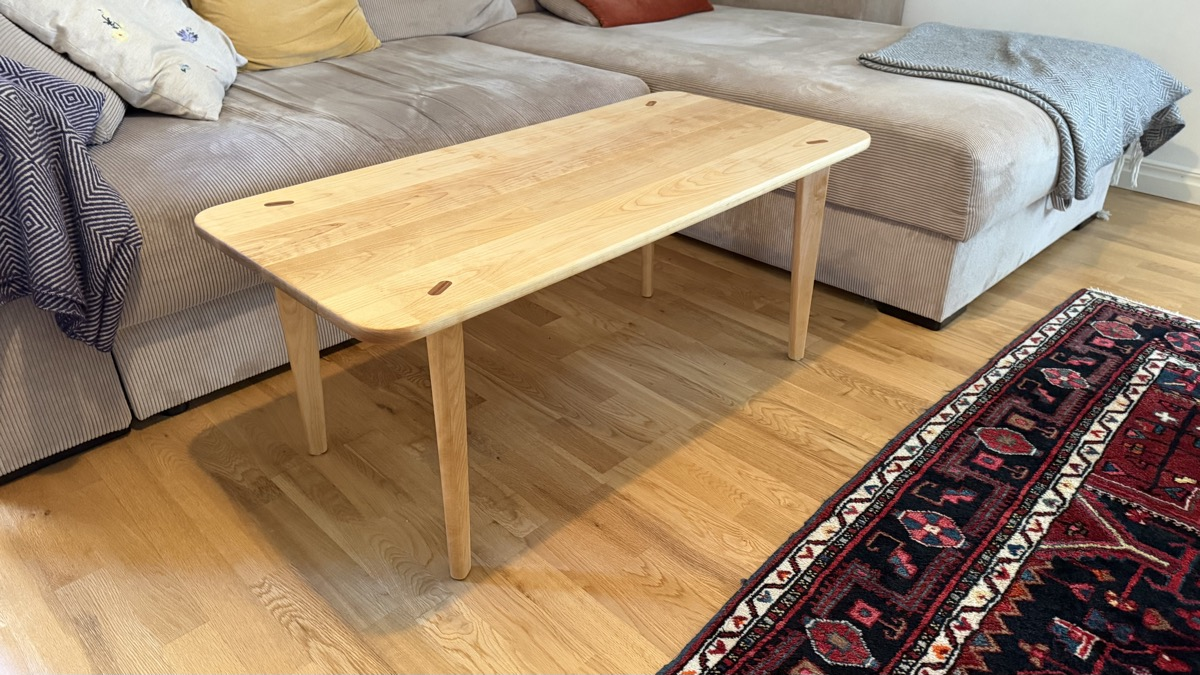
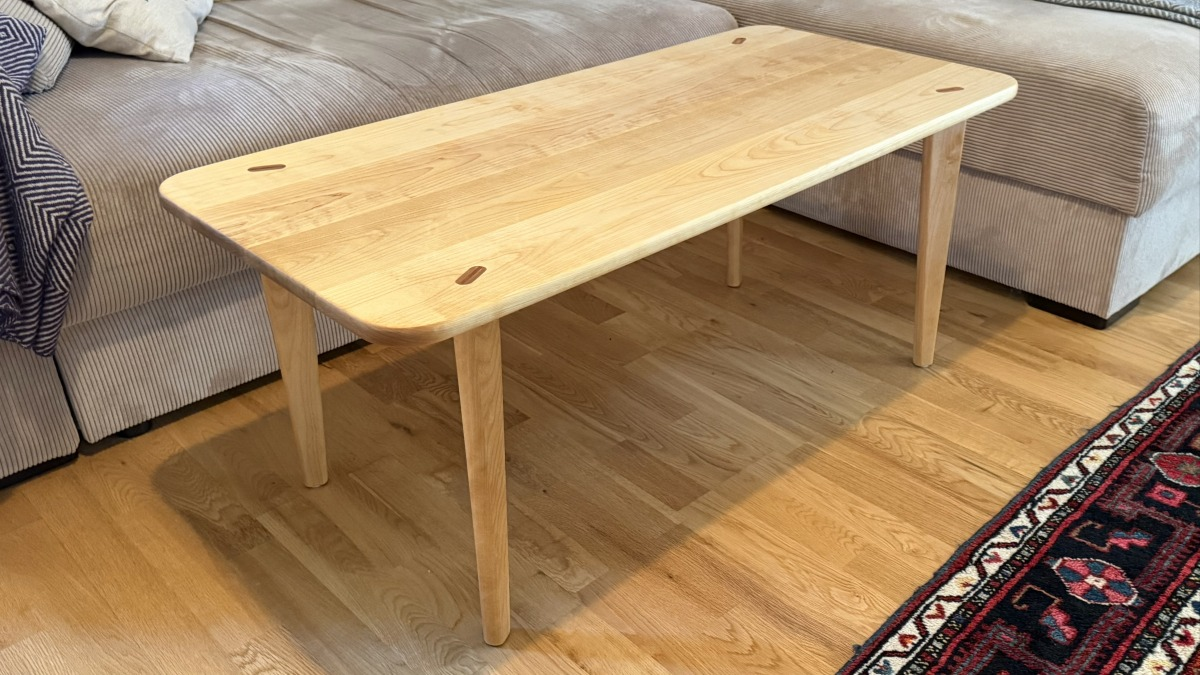
Uppdatera texter och soffbord-bilder
- Om-text: enmansföretag drivet av Fredrik Herrmann
- Plats: Lerum, Sverige
- Soffbord-bilder utbytta och beskurna till 1200x675
- Radbyte i snickeri förfrågningstext

diff --git a/index.html b/index.html
@@ -63,7 +63,7 @@
     </div>
     <div class="about-grid">
       <div class="about-text">
-        <p data-i18n="about_p1">Drago Konsult AB är ett svenskt företag baserat i Lerum med verksamhet inom snickeri, mjukvaruutveckling och teknisk konsultverksamhet.</p>
+        <p data-i18n="about_p1">Drago Konsult AB är ett enmansföretag som drivs av Fredrik Herrmann med verksamhet inom snickeri, mjukvaruutveckling och teknisk konsultverksamhet.</p>
         <p data-i18n="about_p3">Drago är även delägare i bolag.</p>
       </div>
       <div class="about-info">
@@ -97,7 +97,7 @@
           <li><span class="label" data-i18n="contact_email">E-post</span><a href="mailto:fredrik@drago.se">fredrik@drago.se</a></li>
           <li><span class="label" data-i18n="contact_phone">Telefon</span><span>+46 709 46 62 32</span></li>
           <li><span class="label" data-i18n="contact_web">Webb</span><a href="https://www.drago.se">www.drago.se</a></li>
-          <li><span class="label" data-i18n="contact_location">Plats</span><span>Stenkullen, Göteborg, Sverige</span></li>
+          <li><span class="label" data-i18n="contact_location">Plats</span><span>Lerum, Sverige</span></li>
         </ul>
       </div>
     </div>

diff --git a/js/i18n.js b/js/i18n.js
@@ -26,7 +26,7 @@ const translations = {
     pfterminal_more: "Läs mer",
     // Om oss
     section_about: "// Om",
-    about_p1: "Drago Konsult AB är ett svenskt företag baserat i Lerum med verksamhet inom snickeri, mjukvaruutveckling och teknisk konsultverksamhet.",
+    about_p1: "Drago Konsult AB är ett enmansföretag som drivs av Fredrik Herrmann med verksamhet inom snickeri, mjukvaruutveckling och teknisk konsultverksamhet.",
     about_p2: "",
     about_p3: "Drago är även delägare i bolag.",
     info_company: "Bolag",

diff --git a/snickeri.html b/snickeri.html
@@ -38,7 +38,7 @@
       </div>
     </div>
     <div class="section-divider" style="margin: 24px 0;"></div>
-    <p class="product-hero-desc">Handbyggda möbler i massivt trä. Förfrågningar/Köpa → <a href="mailto:fredrik@drago.se">fredrik@drago.se</a></p>
+    <p class="product-hero-desc">Handbyggda möbler i massivt trä.<br>Förfrågningar/Köpa → <a href="mailto:fredrik@drago.se">fredrik@drago.se</a></p>
   </section>
 
   <section class="projects-section gallery-section">
